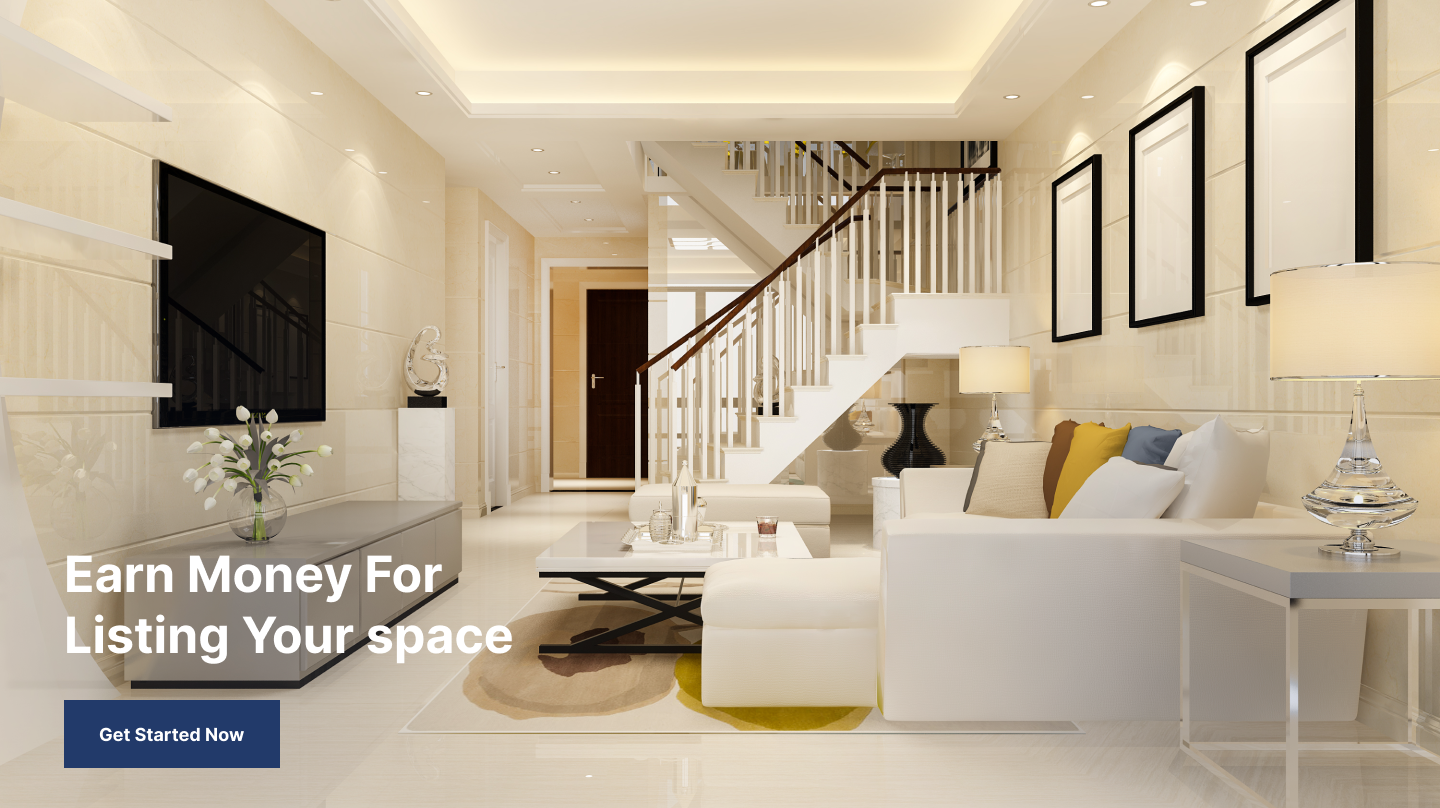
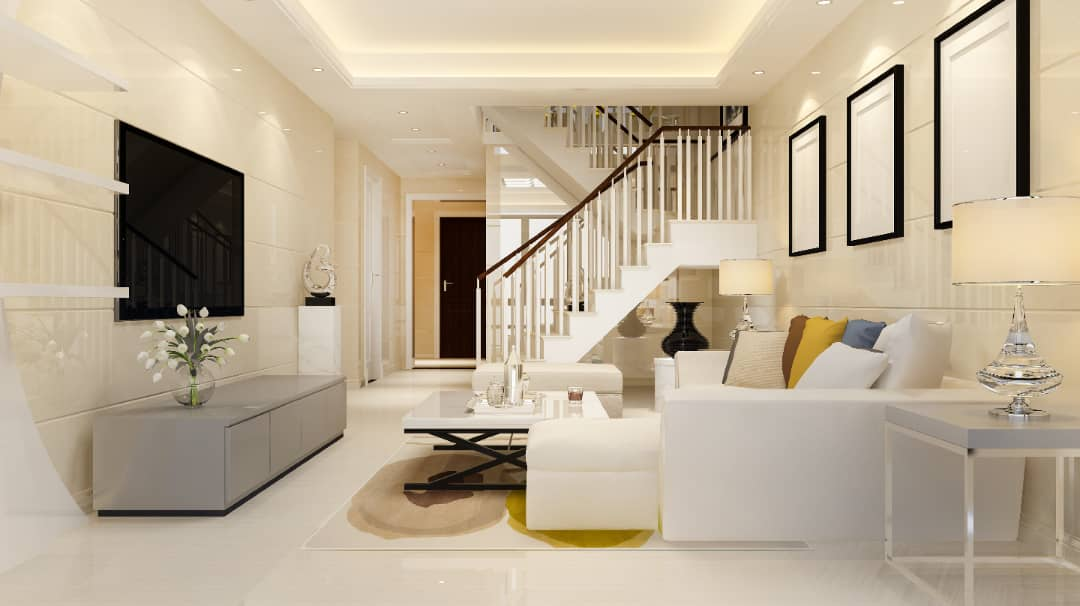
users

diff --git a/src/component/AllListingModal/ListingAddress.jsx b/src/component/AllListingModal/ListingAddress.jsx
@@ -1,15 +1,50 @@
 import React, { useState } from 'react';
 import Image from 'next/image';
 
+const statesCitiesAndLga = {
+    "Lagos": {
+      "Ikeja": ["Ikeja LGA"],
+      "Surulere": ["Surulere LGA"],
+      "Lekki": ["Eti-Osa LGA"]
+    },
+    "Abuja": {
+      "Garki": ["Abuja Municipal LGA"],
+      "Wuse": ["Abuja Municipal LGA"],
+      "Maitama": ["Abuja Municipal LGA"]
+    },
+    "Kano": {
+      "Kano Municipal": ["Kano Municipal LGA"],
+      "Fagge": ["Fagge LGA"],
+      "Dala": ["Dala LGA"]
+    },
+    "Rivers": {
+      "Port Harcourt": ["Port Harcourt LGA"],
+      "Obio-Akpor": ["Obio-Akpor LGA"],
+      "Bonny": ["Bonny LGA"]
+    },
+    "Ogun": {
+      "Abeokuta": ["Abeokuta South LGA", "Abeokuta North LGA"],
+      "Ijebu-Ode": ["Ijebu-Ode LGA"],
+      "Sango Ota": ["Ado-Odo/Ota LGA"]
+    },
+    "Kogi": {
+      "Lokoja": ["Lokoja LGA"],
+      "Okene": ["Okene LGA"],
+      "Idah": ["Idah LGA"],
+      "Yagba West": ["Yagba West LGA"]
+    }
+  };
+  
+
 const ListingAddress = () => {
     const [formData, setFormData] = useState({
-        sDate: "",
-        eDate: "",
-        sTime: "",
-        eTime: "",
-        noCast: '',
-        cleanUp: false,
-        inspecting: false,
+        name: "",
+        state: "",
+        city: "",
+        lg: "",
+        apSt: '',
+        phone: "",
+        address: "",
     });
     //Onchange handler
     const handleChange = (e) => {
@@ -26,7 +61,10 @@ const ListingAddress = () => {
         console.log('Form Data Submitted:', formData);
     };
     return (
-        <section className='grid grid-cols-1 md:grid-cols-2 mt-20 gap-10 py-10 '>
+        <section className='grid relative grid-cols-1 md:grid-cols-2 mt-20 items-center gap-10 py-10 '>
+            <span className='absolute right-6 md-right-16 top-3 text-center text-sm border py-1 px-6 border-gray-300'>
+                1
+            </span>
             {/** Col one */}
             <div className='bg-white flex w-full flex-col gap-3 max-w-[300px] md:max-w-[400px] m-auto rounded-lg'>
                 <div>
@@ -36,101 +74,80 @@ const ListingAddress = () => {
                 <hr className='text-gray-300' />
 
                 <form className='flex flex-col gap-3' onSubmit={handleSubmit}>
-                    <label htmlFor='sDate' className='flex flex-col text-gray-700 text-sm'>
-                        Start Date
+                    <label htmlFor='name' className='flex flex-col text-gray-700 text-sm'>
+                        Name
                         <input
                             required
-                            type='date'
-                            id='sDate'
-                            name='sDate'
-                            value={formData.sDate}
+                            type='text'
+                            placeholder='2 bedroom apartment'
+                            id='name'
+                            name='name'
+                            value={formData.name}
                             onChange={handleChange}
-                            className='border border-gray-300 text-gray-600 placeholder-black w-full outline-none rounded-md p-1'
+                            className='border border-gray-300 text-gray-600 placeholder-gray w-full outline-none rounded-md p-1'
                         />
                     </label>
 
-                    <label htmlFor='eDate' className='flex flex-col text-gray-700 text-sm'>
-                        End Date
-                        <input
-                            required
-                            type='date'
-                            id='eDate'
-                            name='eDate'
-                            value={formData.eDate}
-                            onChange={handleChange}
-                            className='border border-gray-300 text-gray-600 placeholder-black w-full outline-none rounded-md p-1'
-                        />
-                    </label>
+                    {
+                        statesCitiesAndLga.map((drop, i)=>(
+                            <label key={i} htmlFor='eTime' className='flex flex-col text-gray-700 text-sm'>
+                        {drop.key()}
+                        </label>
+                        ))
+                    }
 
-                    <label htmlFor='sTime' className='flex flex-col text-gray-700 text-sm'>
-                        Start Time
+                    <label htmlFor='apSt' className='flex flex-col text-gray-700 text-sm'>
+                        Apt, St
                         <input
                             required
-                            type='time'
-                            id='sTime'
-                            name='sTime'
-                            value={formData.sTime}
+                            type='text'
+                            placeholder='12 Block B'
+                            id='apSt'
+                            name='apSt'
+                            value={formData.apSt}
                             onChange={handleChange}
-                            className='border border-gray-300 text-gray-600 placeholder-black w-full outline-none rounded-md p-1'
-                        />
-                    </label>
-
-                    <label htmlFor='eTime' className='flex flex-col text-gray-700 text-sm'>
-                        End Time
-                        <input
-                            required
-                            type='time'
-                            id='eTime'
-                            name='eTime'
-                            value={formData.eTime}
-                            onChange={handleChange}
-                            className='border border-gray-300 text-gray-600 placeholder-black w-full outline-none rounded-md p-1'
-                        />
-                    </label>
-
-                    <label htmlFor='noCast' className='flex flex-col text-gray-700 text-sm'>
-                        Number of Cast and Crew
-                        <input
-                            required
-                            type='number'
-                            id='noCast'
-                            name='noCast'
-                            value={formData.noCast}
-                            onChange={handleChange}
-                            className='border border-gray-300 text-gray-600 placeholder-black w-full outline-none rounded-md p-1'
+                            className='border border-gray-300 text-gray-600 placeholder-gray w-full outline-none rounded-md p-1'
                             min='1'
                         />
                     </label>
 
-                    <label className='flex items-center gap-2 text-gray-700 text-sm'>
+                    <label htmlFor='phone' className='flex flex-col text-gray-700 text-sm'>
+                        Phone
                         <input
-                            type='checkbox'
-                            id='cleanUp'
-                            name='cleanUp'
-                            checked={formData.cleanUp}
-                            onChange={handleChange}
+                             required
+                             type='tel'
+                             placeholder='+234 808080808080'
+                             id='phone'
+                             name='phone'
+                             checked={formData.phone}
+                             onChange={handleChange}
+                            className='border border-gray-300 text-gray-600 placeholder-gray w-full outline-none rounded-md p-1'
+                            min='1'
                         />
-                        Would you like a clean-up crew?
                     </label>
 
-                    <label className='flex items-center gap-2 text-gray-700 text-sm'>
+                    <label htmlFor='address' className='flex flex-col text-gray-700 text-sm'>
+                        Address
                         <input
-                            type='checkbox'
-                            id='inspecting'
-                            name='inspecting'
-                            checked={formData.inspecting}
-                            onChange={handleChange}
+                             required
+                             type='text'
+                             placeholder="Address"
+                             id='address'
+                             name='address'
+                             checked={formData.address}
+                             onChange={handleChange}
+                            className='border border-gray-300 text-gray-600 placeholder-gray w-full outline-none rounded-md p-1'
+                            min='1'
                         />
-                        Inspecting (+₦5,000)
                     </label>
 
                     <button type='submit' className='bg-[#23396A] text-sm text-white py-2 cursor-pointer w-full flex justify-center border rounded-md'>
-                        Proceed to Book
+                        Next
                     </button>
                 </form>
             </div>
             {/** Col two */}
-            <div className='relative w-full min-h-[300px]'>
+            <div className='relative w-full h-[300px]'>
                 <Image
                     priority={true}
                     fill

diff --git a/src/component/ListYourProps/ListYourProps.jsx b/src/component/ListYourProps/ListYourProps.jsx
@@ -13,7 +13,7 @@ const ListYourProps = () => {
                 <Image
                     priority={true}
                     fill
-                    src="/property-1.png"
+                    src="/listing-yourspace-hero.png"
                     alt="Hero Image"
                     style={{ objectFit: "cover" }}
                     className="absolute z-[-1] top-0 left-0 w-full h-full"

diff --git a/src/app/list-your-property/[all-listings]/page.jsx b/src/app/list-your-property/[all-listings]/page.jsx
@@ -5,7 +5,7 @@ import Footer from '@/component/Footer/Footer'
 import React, { useState } from 'react'
 
 const page = () => {
-  const [allLists, setAllLists] = useState(true)
+  const [allLists, setAllLists] = useState(false)
   return (
     <div>
       {

diff --git a/src/app/properties/[slug]/page.jsx b/src/app/properties/[slug]/page.jsx
@@ -55,6 +55,7 @@ const Page = () => {
     setAddressModal(false);
     setRequestSentModal(true);
     console.log('Form Data Submitted:', formData);
+    window.scrollTo(0,0);
   };
 
   return (
